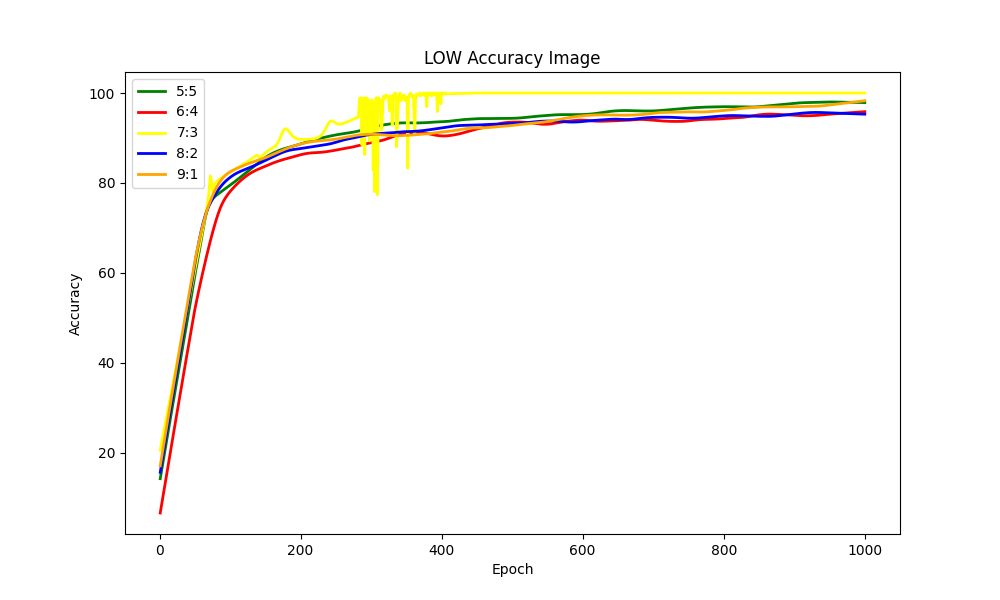
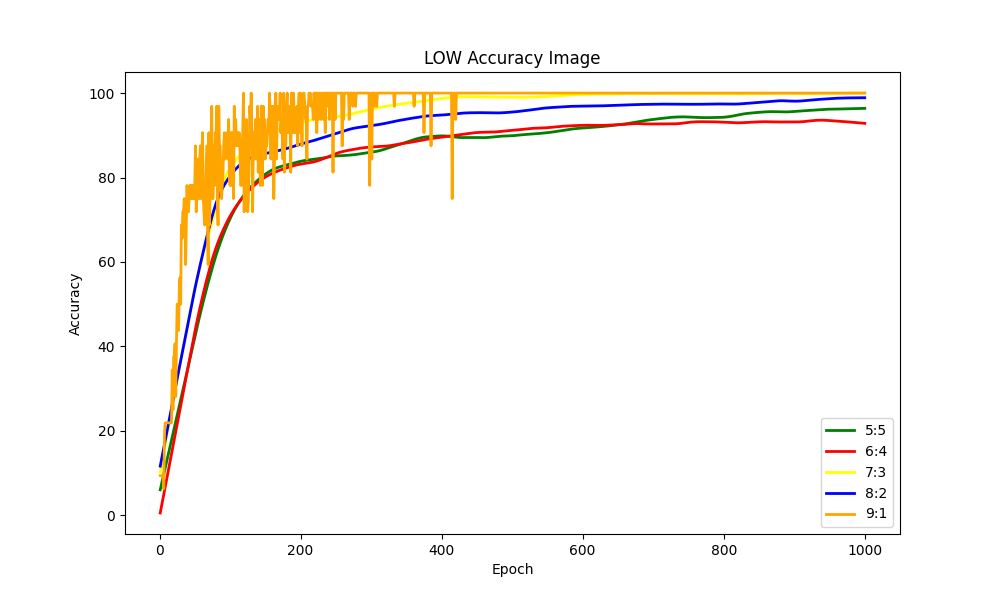
Some bug fixes and improvements

diff --git a/Model_V3/pre_processing.py b/Model_V3/pre_processing.py
@@ -10,7 +10,7 @@ def my_loader(path):
 
 
 # 在data列表中存入图片路径和标签
-test = [[i] for i in range(12)]
+test = []
 
 
 def init_process(path, lens, group, sample):
@@ -18,25 +18,33 @@ def init_process(path, lens, group, sample):
     label = find_label(path)
 
     num = int(lens[1] * sample)
-    my_list = list(range(1, lens[1] + 1))
+    my_list = list(range(lens[0], lens[1]))
     random_nums = random.sample(my_list, num)
+    # print(my_list)
+    # print("==================================================================================")
+    # print(random_nums)
+    # print("==================================================================================")
 
     for i in range(lens[0], lens[1]):
         # 表示没被用来训练的这部分之后会被用来测试
         if i not in random_nums:
             test[group].append(i)
-        data.append([path % i, label])
+        else:
+            data.append([path % i, label])
+    # print(data)
+    # print("==================================================================================")
 
     return data
 
 
-def init_test(path, lens, group):
+def init_test(path, group):
     # 这里的lens没用了其实
     data = []
     label = find_label(path)
     for i in test[group]:
         data.append([path % i, label])
-
+    # print(data)
+    # print("==================================================================================")
     return data
 
 
@@ -90,6 +98,9 @@ def find_label(path_name):
 
 
 def load_data(sample):
+    global test
+    test = [[] for i in range(12)]
+
     print('Data processing...')
 
     # 图像变换操作
@@ -103,15 +114,7 @@ def load_data(sample):
         transforms.Normalize(mean=(0.5, 0.5, 0.5), std=(0.5, 0.5, 0.5))
     ])
 
-    datas = [38, 31, 42, 31, 38, 34, 37, 35, 28, 25, 30]
-    train_rate = 0.8
-
     print(sample)
-
-    train_data = []
-    test_data = []
-    train_data.clear()
-    test_data.clear()
 
     # 训练集的数据（路径+标签）的列表
     train_data = (init_process('../Dataset/datas/A (%d).bmp', [1, 39], 1, sample)
@@ -127,21 +130,23 @@ def load_data(sample):
                   + init_process('../Dataset/datas/K (%d).bmp', [1, 31], 11, sample)
                   )
     print('得到的训练集共有 ' + len(train_data).__str__() + ' 条')
+    # print(train_data)
 
     # 测试集的数据（路径+标签）的列表
-    test_data = (init_test('../Dataset/datas/A (%d).bmp', [1, 9], 1)
-                 + init_test('../Dataset/datas/B (%d).bmp', [1, 8], 2)
-                 + init_test('../Dataset/datas/C (%d).bmp', [1, 10], 3)
-                 + init_test('../Dataset/datas/D (%d).bmp', [1, 8], 4)
-                 + init_test('../Dataset/datas/E (%d).bmp', [1, 9], 5)
-                 + init_test('../Dataset/datas/F (%d).bmp', [1, 8], 6)
-                 + init_test('../Dataset/datas/G (%d).bmp', [1, 9], 7)
-                 + init_test('../Dataset/datas/H (%d).bmp', [1, 8], 8)
-                 + init_test('../Dataset/datas/I (%d).bmp', [1, 7], 9)
-                 + init_test('../Dataset/datas/J (%d).bmp', [1, 6], 10)
-                 + init_test('../Dataset/datas/K (%d).bmp', [1, 7], 11)
+    test_data = (init_test('../Dataset/datas/A (%d).bmp', 1)
+                 + init_test('../Dataset/datas/B (%d).bmp', 2)
+                 + init_test('../Dataset/datas/C (%d).bmp', 3)
+                 + init_test('../Dataset/datas/D (%d).bmp', 4)
+                 + init_test('../Dataset/datas/E (%d).bmp', 5)
+                 + init_test('../Dataset/datas/F (%d).bmp', 6)
+                 + init_test('../Dataset/datas/G (%d).bmp', 7)
+                 + init_test('../Dataset/datas/H (%d).bmp', 8)
+                 + init_test('../Dataset/datas/I (%d).bmp', 9)
+                 + init_test('../Dataset/datas/J (%d).bmp', 10)
+                 + init_test('../Dataset/datas/K (%d).bmp', 11)
                  )
     print('得到的测试集共有 ' + len(test_data).__str__() + ' 条')
+    # print(test_data)
 
     train_dataset = MyDataset(train_data, transform=transform, loader=my_loader)
     train_loader = DataLoader(train_dataset, shuffle=True, batch_size=8, num_workers=0)
@@ -151,7 +156,10 @@ def load_data(sample):
     print('End of data processing...')
     return train_loader, test_loader
 
-
 # 单元测试
-if __name__ == '__main__':
-    a, b = load_data(0.8)
+# if __name__ == '__main__':
+#     a, b = load_data(0.5)
+#     c, d = load_data(0.6)
+#     e, f = load_data(0.7)
+#     g, h = load_data(0.8)
+#     i, j = load_data(0.9)

diff --git a/Model_V1/util_original.py b/Model_V1/util_original.py
@@ -1,0 +1,78 @@
+import numpy as np
+import matplotlib.pyplot as plt
+from scipy.ndimage import gaussian_filter1d
+from scipy.signal import medfilt
+import statsmodels.api as sm
+
+
+def generate_data():
+    """生成模拟的损失值数据和对应的epoch列表"""
+    np.random.seed(0)
+    x = np.arange(1, 1001)  # Epochs from 1 to 1000
+    y = np.random.normal(0.5, 0.1, size=1000)  # 随机生成的损失值，均值为0.5，标准差为0.1
+    return x, y
+
+
+def simple_moving_average(data, window_size):
+    """计算简单移动平均（SMA）"""
+    """window_size: 移动窗口的大小，值越大，平滑效果越好。"""
+    weights = np.ones(window_size) / window_size
+    sma = np.convolve(data, weights, mode='valid')
+    return sma
+
+
+def exponential_moving_average(data, alpha):
+    """计算指数移动平均（EMA）"""
+    """ alpha: 平滑因子，值越小平滑效果越强，反应速度越慢。"""
+    ema = [data[0]]
+    for i in range(1, len(data)):
+        ema.append(alpha * data[i] + (1 - alpha) * ema[-1])
+    return ema
+
+
+def apply_gaussian_filter(data, sigma):
+    """应用高斯滤波平滑处理"""
+    """高斯核的标准差，值越大，平滑效果越好。"""
+    return gaussian_filter1d(data, sigma=sigma)
+
+
+def apply_median_filter(data, kernel_size):
+    """应用中位数滤波平滑处理"""
+    """kernel_size: 滤波器的大小，必须为奇数，值越大，平滑效果越好。"""
+    return medfilt(data, kernel_size=kernel_size)
+
+
+def apply_lowess(data, x, frac):
+    """应用局部加权回归平滑（LOWESS）处理"""
+    """frac: 用于估计每个点回归权重的数据点比例。值越大，平滑效果越好。"""
+    return sm.nonparametric.lowess(data, x, frac=frac)[:, 1]
+
+
+def plot_result(x, y, smooth_y, title):
+    """绘制原始数据与平滑数据的对比图"""
+    plt.figure(figsize=(10, 6))
+    # 原始图
+    plt.plot(x, y, label='Original', alpha=0.5)
+    # 平滑处理后的图
+    plt.plot(x[len(x) - len(smooth_y):] if len(smooth_y) < len(x) else x, smooth_y, label='Smoothed', linewidth=2)
+    plt.title(title)
+    plt.xlabel('Epoch')
+    plt.ylabel('Loss')
+    plt.legend()
+    plt.show()
+
+
+if __name__ == '__main__':
+    x, y = generate_data()
+    sma = simple_moving_average(y, 10)
+    ema = exponential_moving_average(y, 0.1)
+    gaussian = apply_gaussian_filter(y, sigma=5)
+    median = apply_median_filter(y, kernel_size=9)
+    lowess = apply_lowess(y, x, frac=0.1)
+
+    # 单独绘制每个平滑方法的结果
+    plot_result(x, y, sma, '简单移动平均 (SMA)')
+    plot_result(x, y, ema, '指数移动平均 (EMA)')
+    plot_result(x, y, gaussian, '高斯平滑')
+    plot_result(x, y, median, '中位数滤波')
+    plot_result(x, y, lowess, '局部加权回归平滑 (LOWESS)')

diff --git a/Model_V3/.ipynb_checkpoints/cnn-checkpoint.py b/Model_V3/.ipynb_checkpoints/cnn-checkpoint.py
@@ -148,7 +148,7 @@ if __name__ == '__main__':
     plt.ylabel('Precision')
     plt.title('5:5 Precision-Recall Curve')
     plt.legend(loc="best")
-    plt.savefig(f"./5:5-Precision-Recall-Curve.png")
+    plt.savefig(f"./5_5-Precision-Recall-Curve.png")
     plt.show()
     plt.close()
     # ==================================================================================
@@ -209,7 +209,7 @@ if __name__ == '__main__':
     plt.ylabel('Precision')
     plt.title('6:4 Precision-Recall Curve')
     plt.legend(loc="best")
-    plt.savefig(f"./6:4-Precision-Recall-Curve.png")
+    plt.savefig(f"./6_4-Precision-Recall-Curve.png")
     plt.show()
     plt.close()
     # ==================================================================================
@@ -270,7 +270,7 @@ if __name__ == '__main__':
     plt.ylabel('Precision')
     plt.title('7:3 Precision-Recall Curve')
     plt.legend(loc="best")
-    plt.savefig(f"./7:3-Precision-Recall-Curve.png")
+    plt.savefig(f"./7_3-Precision-Recall-Curve.png")
     plt.show()
     plt.close()
     # ==================================================================================
@@ -331,7 +331,7 @@ if __name__ == '__main__':
     plt.ylabel('Precision')
     plt.title('8:2 Precision-Recall Curve')
     plt.legend(loc="best")
-    plt.savefig(f"./8:2-Precision-Recall-Curve.png")
+    plt.savefig(f"./8_2-Precision-Recall-Curve.png")
     plt.show()
     plt.close()
     # ==================================================================================
@@ -392,7 +392,7 @@ if __name__ == '__main__':
     plt.ylabel('Precision')
     plt.title('9:1 Precision-Recall Curve')
     plt.legend(loc="best")
-    plt.savefig(f"./9:1-Precision-Recall-Curve.png")
+    plt.savefig(f"./9_1-Precision-Recall-Curve.png")
     plt.show()
     plt.close()
     # ==================================================================================

diff --git a/README.md b/README.md
@@ -79,23 +79,45 @@ python cnn.py
 
 - 我们也增加性能指标来评估模型，主要包括 “**轮次**-**损失值** / **准确率** / **精确率** / **召回率**” 的图像，以及 “**召回率** / **精确率**” 的图像
 
-**简单平均移动** ![SMA_Loss.png](Model_V3%2FSMA_Loss.png)![SMA_Accuracy.png](Model_V3%2FSMA_Accuracy.png)![SMA_Precision.png](Model_V3%2FSMA_Precision.png)![SMA_Recall.png](Model_V3%2FSMA_Recall.png)
+**简单平均移动** <br/>
+![SMA_Loss.png](Model_V3%2FSMA_Loss.png)![SMA_Accuracy.png](Model_V3%2FSMA_Accuracy.png)
+![SMA_Precision.png](Model_V3%2FSMA_Precision.png)![SMA_Recall.png](Model_V3%2FSMA_Recall.png)
 <br/>
-<br/>
-
-**指数平均移动** ![EMA_Loss.png](Model_V3%2FEMA_Loss.png)![EMA_Accuracy.png](Model_V3%2FEMA_Accuracy.png)![EMA_Precision.png](Model_V3%2FEMA_Precision.png)![EMA_Recall.png](Model_V3%2FEMA_Recall.png)
-<br/>
-<br/>
-
-**高斯滤波平滑** <br/>![GAU_Loss.png](Model_V3%2FGAU_Loss.png)![GAU_Accuracy.png](Model_V3%2FGAU_Accuracy.png)![GAU_Precision.png](Model_V3%2FGAU_Precision.png)![GAU_Recall.png](Model_V3%2FGAU_Recall.png)
 <br/>
 <br/>
 
-**中位数滤波平滑** <br/>![MED_Loss.png](Model_V3%2FMED_Loss.png)![MED_Accuracy.png](Model_V3%2FMED_Accuracy.png)![MED_Precision.png](Model_V3%2FMED_Precision.png)![MED_Recall.png](Model_V3%2FMED_Recall.png)
+**指数平均移动** <br/>
+![EMA_Loss.png](Model_V3%2FEMA_Loss.png)
+![EMA_Accuracy.png](Model_V3%2FEMA_Accuracy.png)
+![EMA_Precision.png](Model_V3%2FEMA_Precision.png)
+![EMA_Recall.png](Model_V3%2FEMA_Recall.png)
+<br/>
 <br/>
 <br/>
 
-**局部加权回归平滑** ![LOW_Loss.png](Model_V3%2FLOW_Loss.png)![LOW_Accuracy.png](Model_V3%2FLOW_Accuracy.png)![LOW_Precision.png](Model_V3%2FLOW_Precision.png)![LOW_Recall.png](Model_V3%2FLOW_Recall.png)
+**高斯滤波平滑** <br/>
+![GAU_Loss.png](Model_V3%2FGAU_Loss.png)
+![GAU_Accuracy.png](Model_V3%2FGAU_Accuracy.png)
+![GAU_Precision.png](Model_V3%2FGAU_Precision.png)
+![GAU_Recall.png](Model_V3%2FGAU_Recall.png)
+<br/>
+<br/>
+<br/>
+
+**中位数滤波平滑** <br/>
+![MED_Loss.png](Model_V3%2FMED_Loss.png)
+![MED_Accuracy.png](Model_V3%2FMED_Accuracy.png)
+![MED_Precision.png](Model_V3%2FMED_Precision.png)
+![MED_Recall.png](Model_V3%2FMED_Recall.png)
+<br/>
+<br/>
+<br/>
+
+**局部加权回归平滑** <br/>
+![LOW_Loss.png](Model_V3%2FLOW_Loss.png)
+![LOW_Accuracy.png](Model_V3%2FLOW_Accuracy.png)
+![LOW_Precision.png](Model_V3%2FLOW_Precision.png)
+![LOW_Recall.png](Model_V3%2FLOW_Recall.png)
 
 ### 总结
 
@@ -117,7 +139,7 @@ python cnn.py
 
 ![GAU_Recall.png](Model_V3%2FGAU_Recall.png)
 
-最后根据数据集的样本数量以及训练集与测试集比例的不同，综合可视化的图像来分析，可以明显看出训练测试比例为7:3的时候效果最好，其余不相上下，但是整体都是呈现出曲线函数的趋势，且最后收敛
+最后根据数据集的样本数量以及训练集与测试集比例的不同，综合可视化的图像及其性能来分析，可以明显看出训练测试比例为9:1的时候效果最好，和7:3的最后的精确率、准确率和召回率都收敛于1，8:2次之，而5:5和6:4效果偏弱一些，但是整体都是呈现出曲线函数的趋势，且最后收敛
 
 另外，我们也给出不同训练集测试集比例下的 `Recall-Precision` 图像：<br/>
 ![5_5-Precision-Recall-Curve.png](Model_V3%2F5_5-Precision-Recall-Curve.png)
